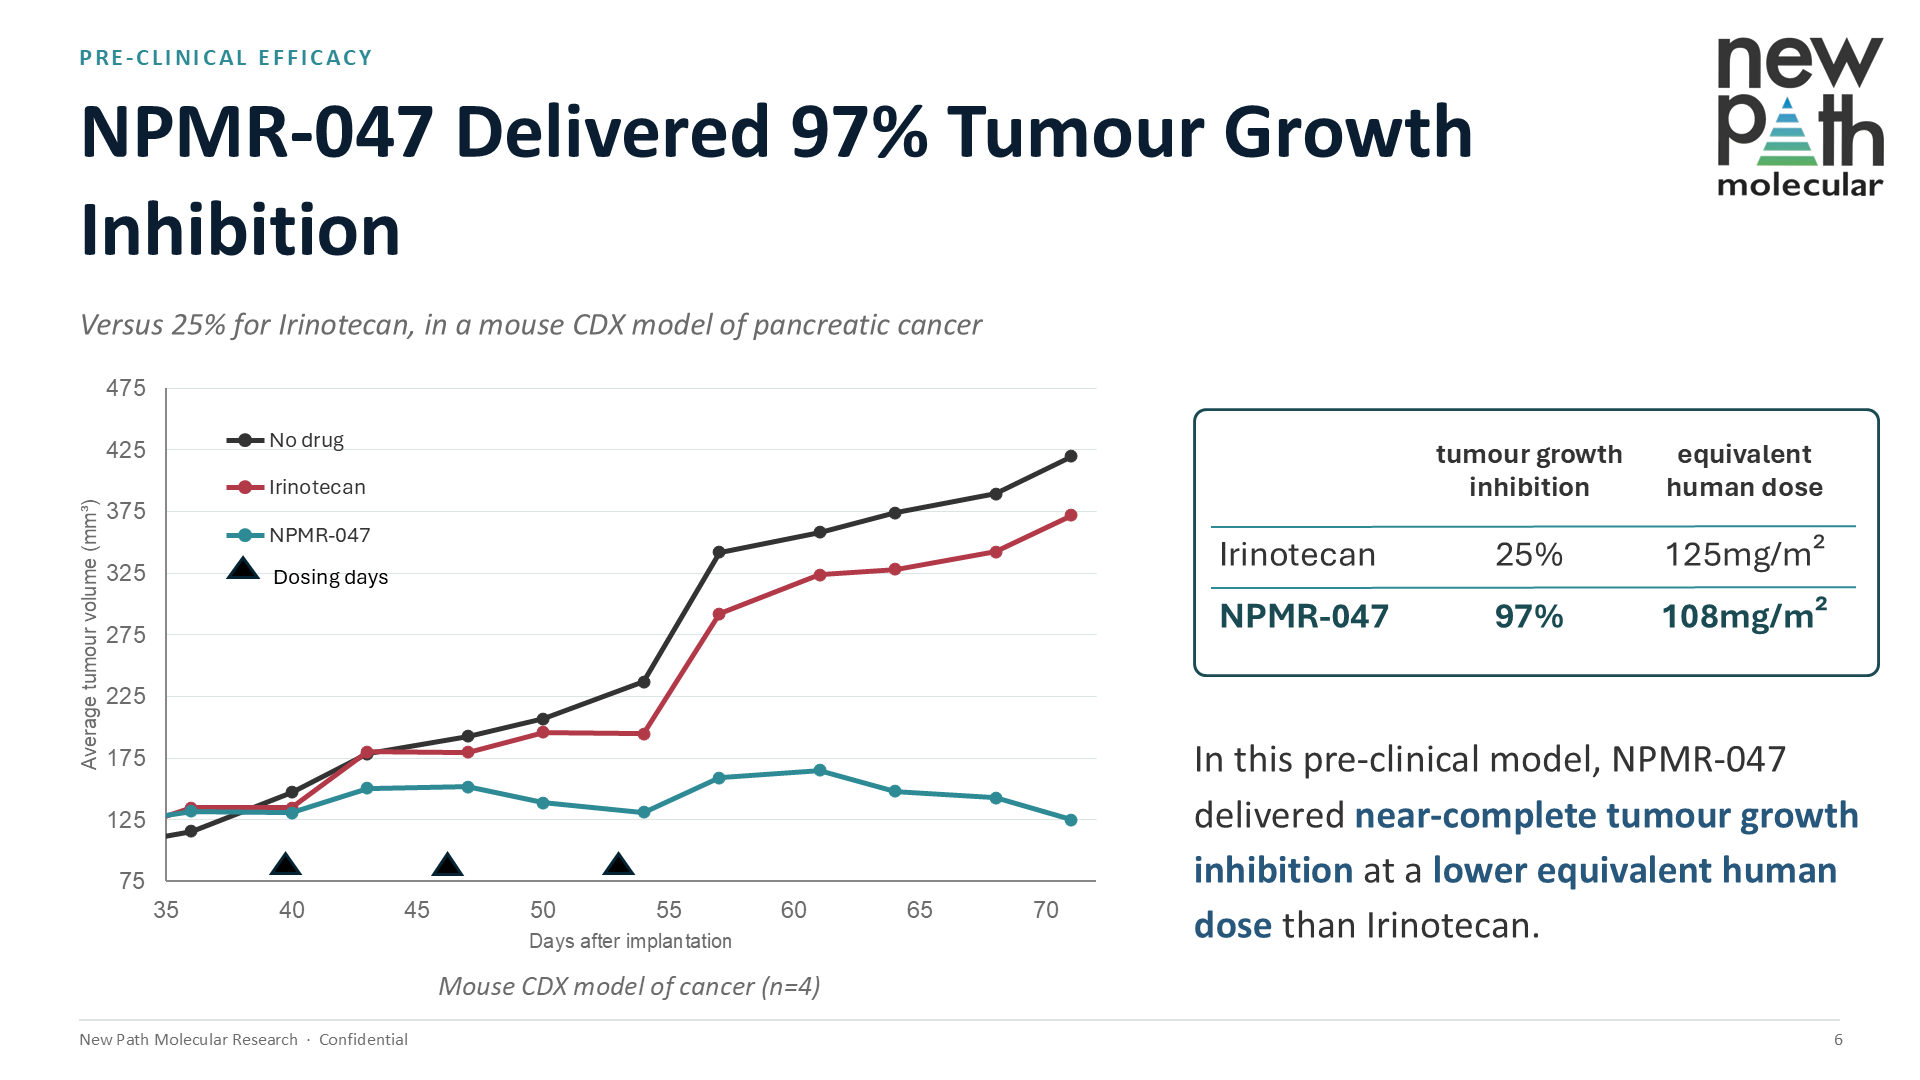
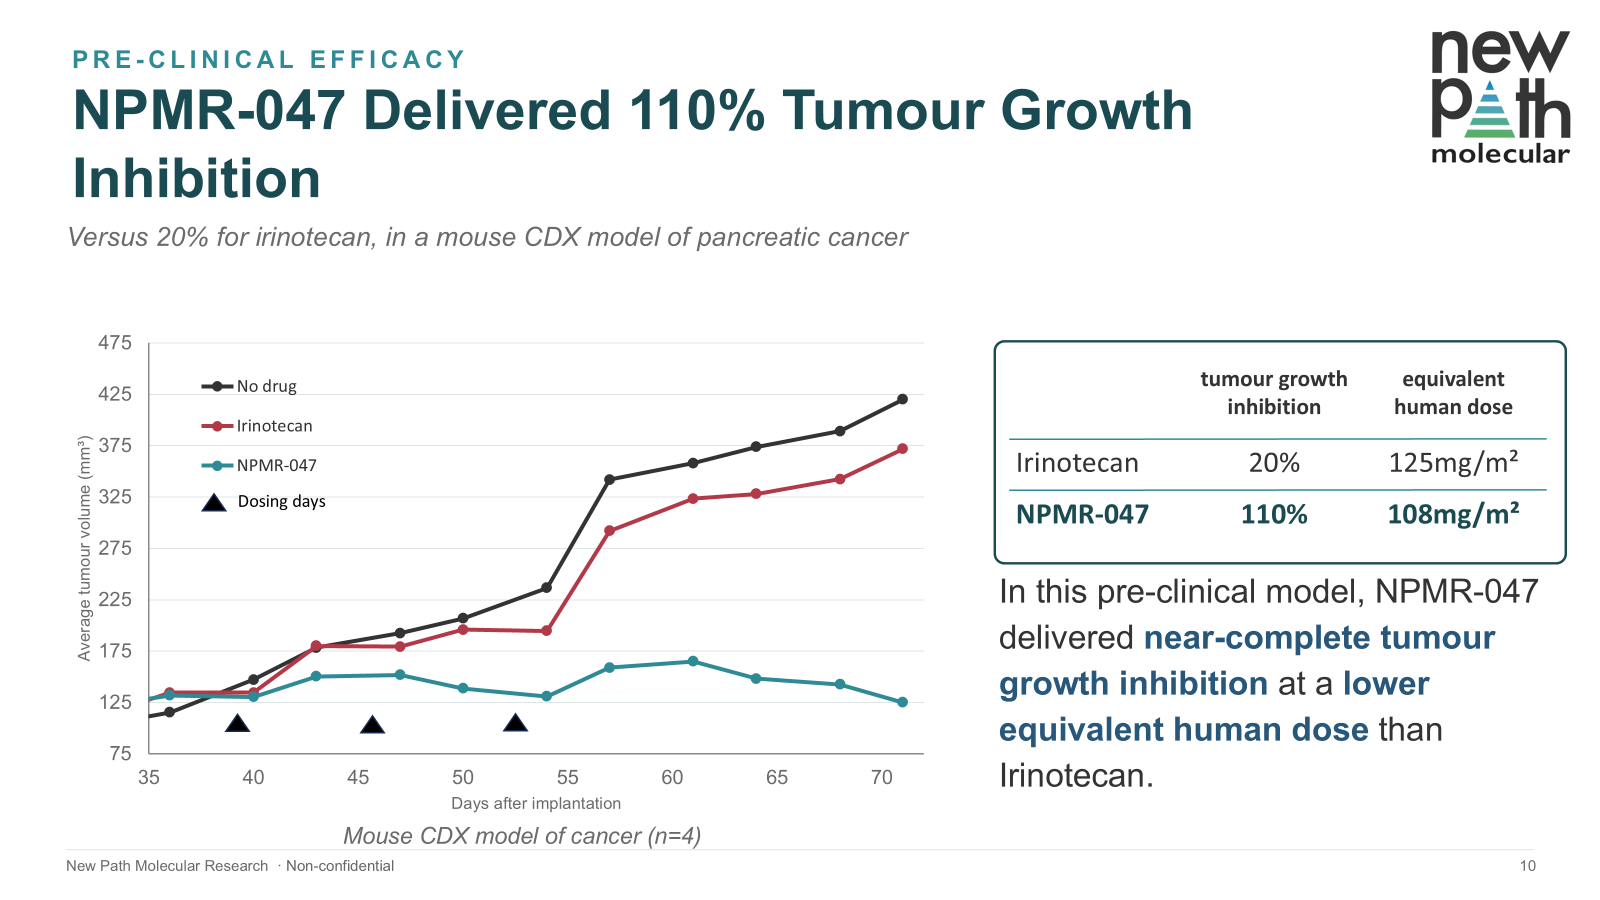
Update efficacy data to 110% TGI (NMPR-047) vs 20% (Irinotecan)

diff --git a/pipeline/nmpr-047.html b/pipeline/nmpr-047.html
@@ -611,16 +611,16 @@
 
     <div class="slide-figures">
       <figure class="slide-fig">
-        <img src="data-efficacy-pancreatic.png" alt="Line chart showing average tumour volume over days 35 to 71 after implantation. NMPR-047 line remains near baseline while Irinotecan and no-drug control lines rise steeply. Summary table shows 97% tumour growth inhibition for NMPR-047 versus 25% for Irinotecan at a lower equivalent human dose." />
-        <figcaption><strong>Efficacy · Mouse CDX model · Pancreatic cancer.</strong> NMPR-047 delivered 97% tumour growth inhibition versus 25% for Irinotecan, at a lower equivalent human dose (108 mg/m² versus 125 mg/m²). Non-GLP exploratory study, n=4.</figcaption>
+        <img src="data-efficacy-pancreatic.png" alt="Line chart showing average tumour volume over days 35 to 71 after implantation. NMPR-047 line falls below baseline indicating tumour regression while Irinotecan and no-drug control lines rise steeply. Summary table shows 110% tumour growth inhibition for NMPR-047 versus 20% for Irinotecan at a lower equivalent human dose." />
+        <figcaption><strong>Efficacy · Mouse CDX model · Pancreatic cancer.</strong> NMPR-047 delivered 110% tumour growth inhibition (tumour regression) versus 20% for Irinotecan, at a lower equivalent human dose (108 mg/m² versus 125 mg/m²). Non-GLP exploratory study, n=4.</figcaption>
         <div class="study-summary">
           <dl>
             <dt>Asset</dt><dd>NMPR-047</dd>
             <dt>Comparator</dt><dd>Irinotecan (standard of care)</dd>
             <dt>Model</dt><dd>Mouse CDX model of pancreatic ductal adenocarcinoma</dd>
             <dt>Primary endpoint</dt><dd>Tumour growth inhibition (TGI)</dd>
-            <dt>Result — NMPR-047</dt><dd>97% TGI at 108 mg/m² equivalent human dose</dd>
-            <dt>Result — Irinotecan</dt><dd>25% TGI at 125 mg/m² equivalent human dose</dd>
+            <dt>Result — NMPR-047</dt><dd>110% TGI at 108 mg/m² equivalent human dose (tumour regression)</dd>
+            <dt>Result — Irinotecan</dt><dd>20% TGI at 125 mg/m² equivalent human dose</dd>
             <dt>Sample size</dt><dd>n=4</dd>
             <dt>Study type</dt><dd>Non-GLP exploratory efficacy study</dd>
             <dt>Clinical status</dt><dd>Preclinical. These results have not been replicated in humans.</dd>
